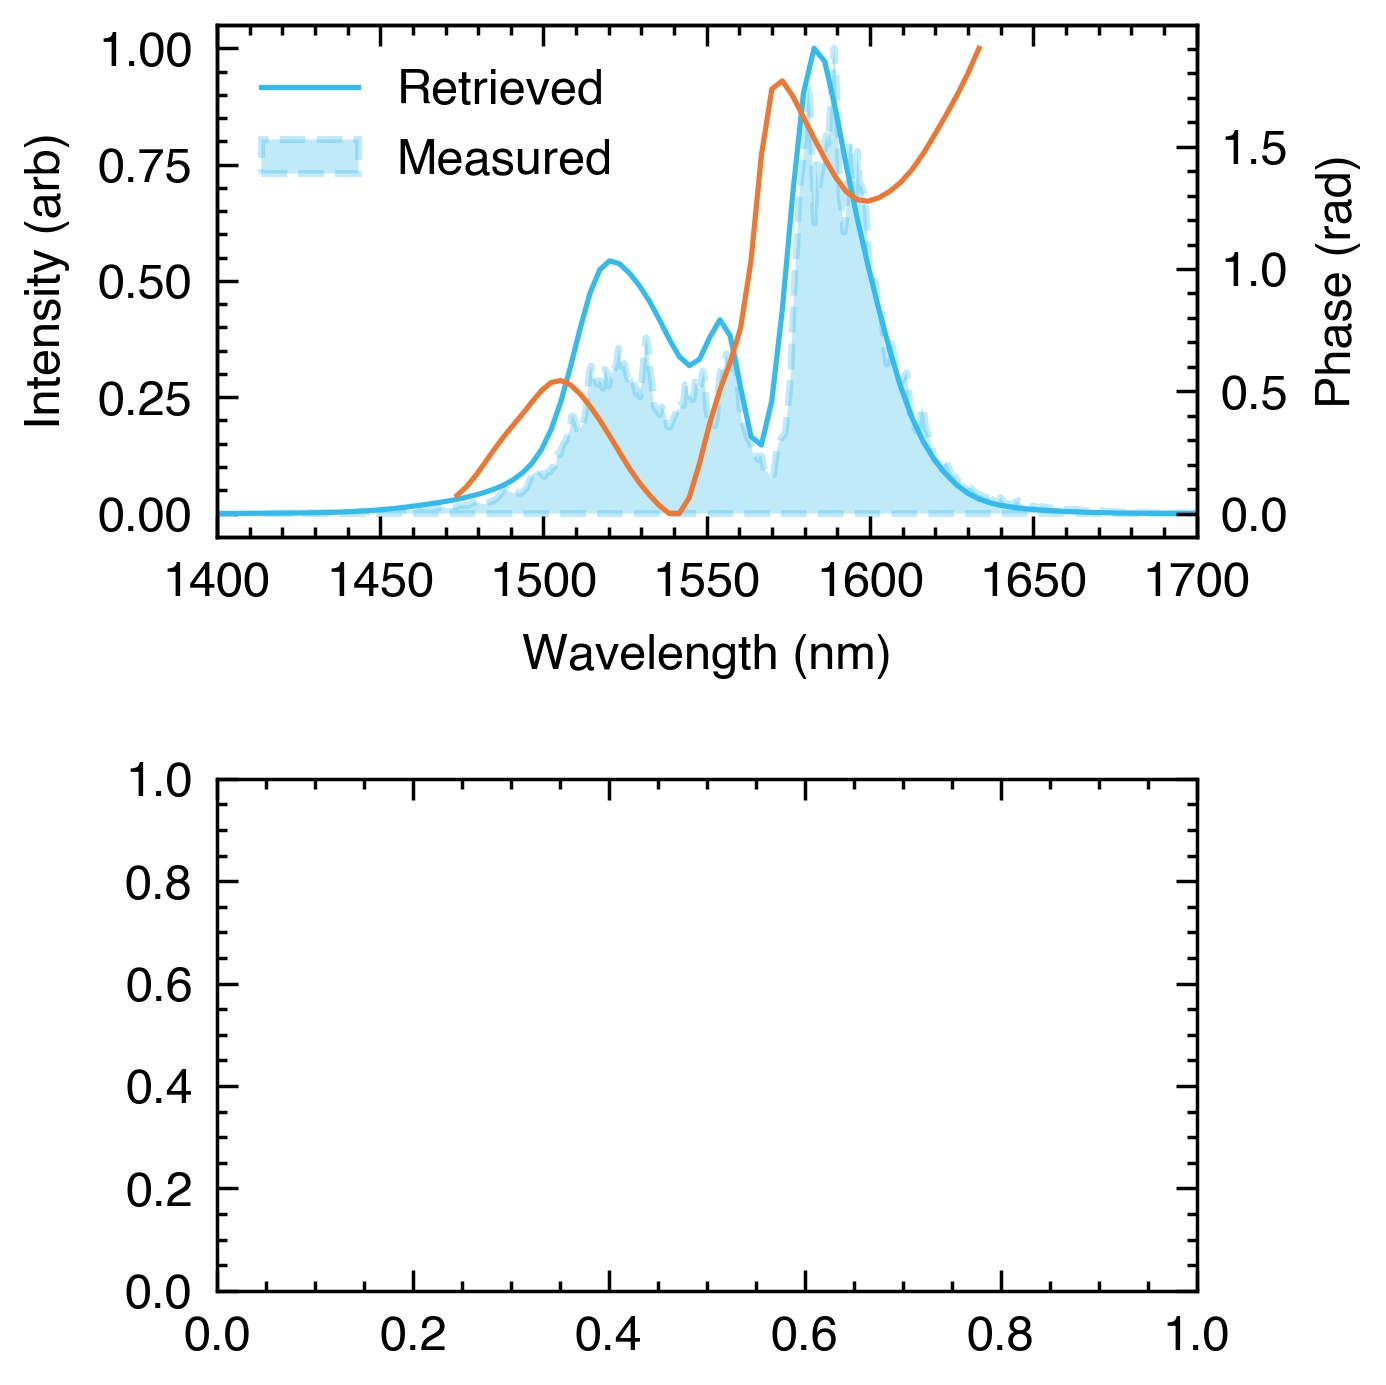
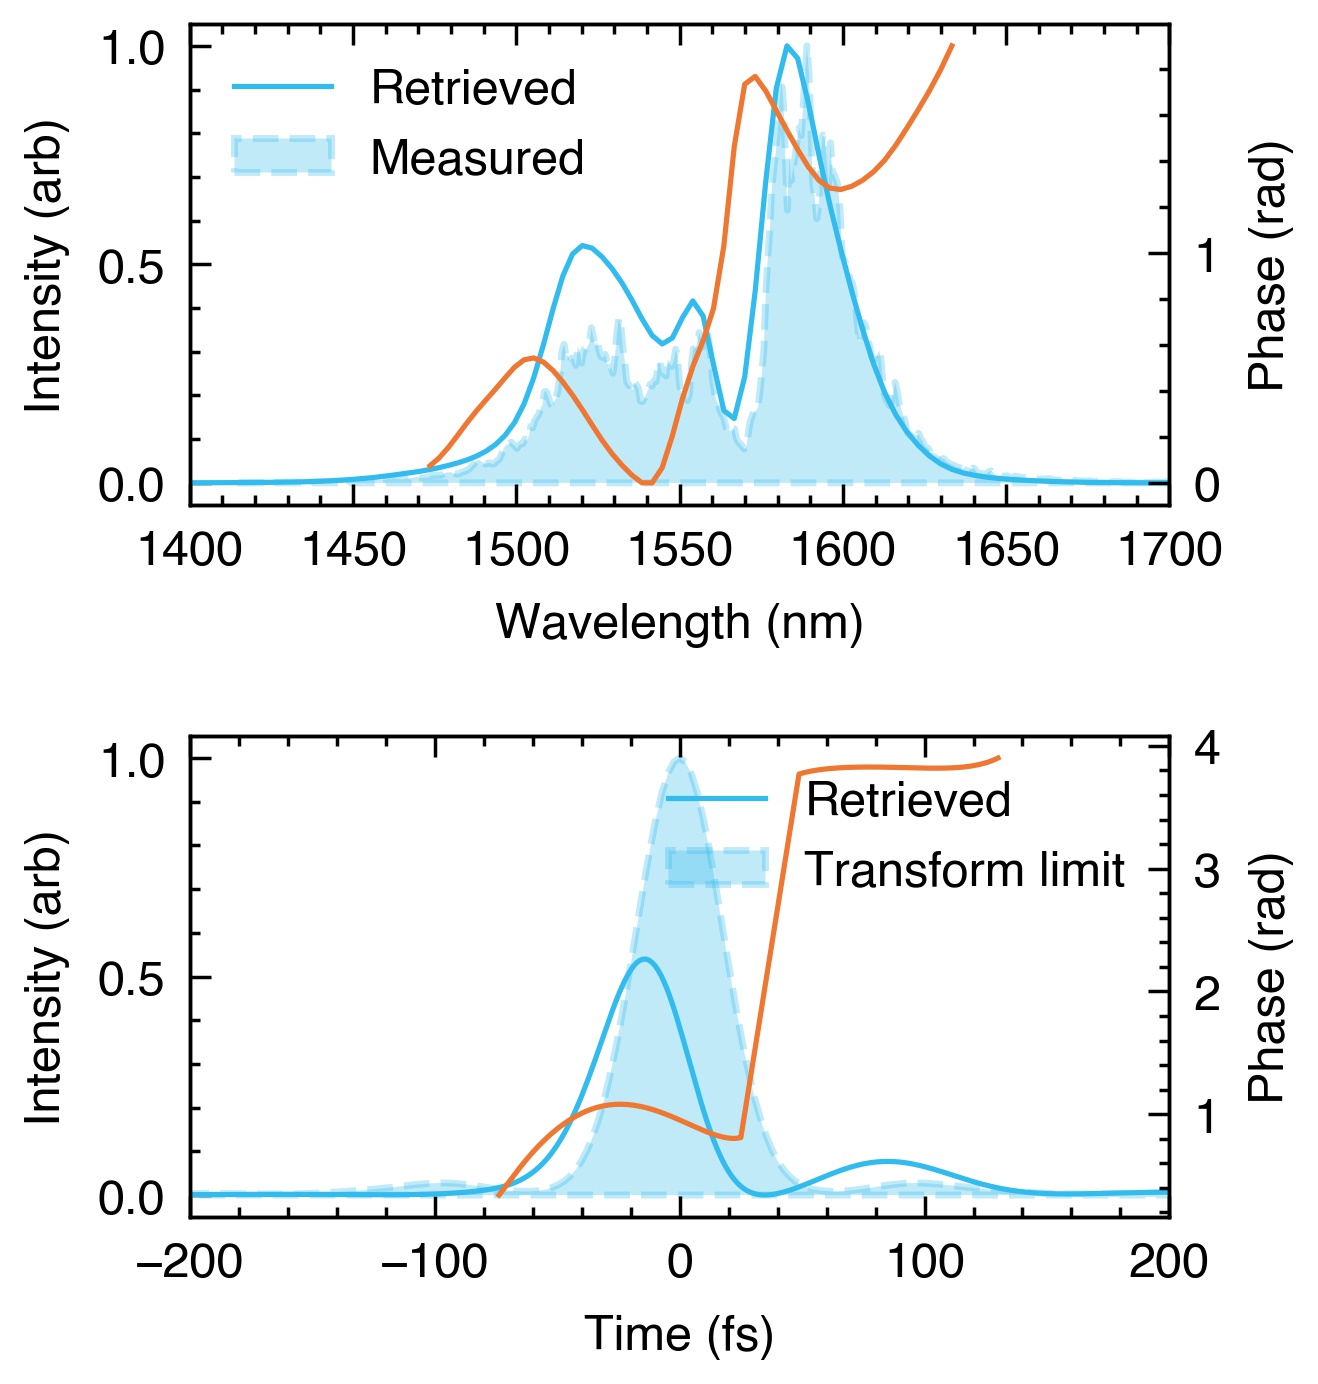
Got temporal plots working

Changed region(s): [[0.0, 0.0, 0.9954, 0.4971], [0.0, 0.5282, 0.9954, 0.9942]]

diff --git a/main.py b/main.py
@@ -7,6 +7,7 @@
 # ----------------------- Imports ------------------------------
 from import_frog_data import import_frog_data
 from import_oceanoptics_data import import_oceanoptics_data
+from calculate_transform_limit import calculate_transform_limit
 import matplotlib.pyplot as plt
 import numpy as np
 
@@ -25,9 +26,10 @@ frog_folder = "FROG retrievals/FROG8"
 spectrum_file = "OceanOptics Spectra/FROG8_spectrum.txt"
 wl_minimum = 1400  # Minimum wavelength [nm]
 wl_maximum = 1700  # Maximum wavelength [nm]
-t_minimum = -500  # Minimum time [fs]
-t_maximum = 500  # Maximum time [fs]
+t_minimum = -200  # Minimum time [fs]
+t_maximum = 200  # Maximum time [fs]
 FROG_threshold = 0.03  # Phase data below this threshold is not shown
+pulse_energy = 1  # Pulse energy [mJ]
 # --------------------------------------------------------------
 
 
@@ -35,18 +37,34 @@ if __name__ == "__main__":
     # Import data from FROG retrieval
     FROG_data = import_frog_data(frog_folder)
     ROI = np.where(FROG_data[1] > FROG_threshold)
+    ROI_t = np.where(FROG_data[4] > FROG_threshold)
 
     # Import data from OceanOptics spectrometer
     Spectrometer_data = import_oceanoptics_data(spectrum_file)
 
-    # Process data
-    # Calculate TL
+    # Calculate transform limit of OceanOptics spectrum
+    TL_data = calculate_transform_limit(
+        Spectrometer_data[0], Spectrometer_data[1], wl_minimum, wl_maximum
+    )
+
+    # Normalize temporal data
+    # TODO: incorporate pulse_energy to calculate peak powers
+    FROG_Et = FROG_data[4] / np.sum(
+        FROG_data[4] * np.abs(FROG_data[0][-1] - FROG_data[0][-2])
+    )
+    TL_Et = TL_data[1] / np.sum(TL_data[1] * np.abs(TL_data[0][-1] - TL_data[0][-2]))
+
+    max = np.max([np.max(FROG_Et), np.max(TL_Et)])
+
+    FROG_Et = FROG_Et / max
+    TL_Et = TL_Et / max
 
     # Generate plot
-    fig, axes = plt.subplots(2, 1, figsize=(3, 3))
+    fig, axes = plt.subplots(2, 2, figsize=(3, 3))
 
-    # Generate spectrum figure
+    # ------------------ Generate spectrum figure ------------------
     ax2 = axes[0].twinx()
+
     axes[0].plot(
         FROG_data[0], FROG_data[1], color=c1, label="Retrieved", linewidth=0.75
     )
@@ -60,29 +78,38 @@ if __name__ == "__main__":
         linestyle="--",
     )
     ax2.plot(FROG_data[0][ROI], FROG_data[2][ROI], color=c2, linewidth=0.75)
+
     axes[0].set_ylabel("Intensity (arb)")
     ax2.set_ylabel("Phase (rad)")
     axes[0].set_xlabel("Wavelength (nm)")
     axes[0].set_xlim(wl_minimum, wl_maximum)
     axes[0].legend()
+    # --------------------------------------------------------------
 
-    # Generate temporal figure
-    # axes[1].plot(
-    #     t_TL_frog,
-    #     E_TL_frog,
-    #     label=f"TL of FROG spectrum, {fwhm_TL_frog:.1f} fs",
-    #     color=c1,
-    # )
-    # axes[1].plot(
-    #     ts_frog - ts_frog[np.argmax(intensity_t)],
-    #     intensity_t,
-    #     label=f"Retrieved pulse, {fwhm_retrieved:.1f} fs",
-    #     color=c4,
-    # )
-    # axes[1].set_xlabel("Time (fs)")
-    # axes[1].set_ylabel("Intensity (arb)")
-    # axes[1].set_xlim(t_minimum, t_maximum)
-    # axes[1].legend()
+    # ------------------ Generate temporal figure ------------------
+    ax3 = axes[1].twinx()
+
+    axes[1].plot(FROG_data[3], FROG_Et, label="Retrieved", color=c1, linewidth=0.75)
+    axes[1].fill_between(
+        TL_data[0],
+        0,
+        TL_Et,
+        color=c1,
+        label="Transform limit",
+        alpha=0.3,
+        linestyle="--",
+    )
+    ax3.plot(FROG_data[3][ROI_t], FROG_data[5][ROI_t], color=c2, linewidth=0.75)
+
+    axes[1].set_ylabel("Intensity (arb)")
+    ax3.set_ylabel("Phase (rad)")
+    axes[1].set_xlabel("Time (fs)")
+    axes[1].set_xlim(t_minimum, t_maximum)
+    axes[1].legend()
+    # --------------------------------------------------------------
+
+    # ---------------- Display measured FROG trade -----------------
+    axes[2].imshow()
 
     fig.tight_layout()
     plt.savefig("figures/combined_frog_plot.jpg", dpi=500)

diff --git a/calculate_transform_limit.py b/calculate_transform_limit.py
@@ -4,8 +4,8 @@ from scipy.interpolate import UnivariateSpline
 from scipy.fft import fft, fftshift
 
 
-def calculate_transform_limit(wls, intensity):
-    intensity = np.where(np.logical_and(wls > 900, wls < 1100), intensity, 0)
+def calculate_transform_limit(wls, intensity, wl_min, wl_max):
+    intensity = np.where(np.logical_and(wls > wl_min, wls < wl_max), intensity, 0)
     phase = np.zeros(len(wls))
     Ew = np.sqrt(intensity) * np.exp(phase)
     freqs = 3e17 / wls
@@ -24,8 +24,10 @@ def calculate_transform_limit(wls, intensity):
     t = np.linspace(-dt * len(freqfit) / 2, dt * len(freqfit) / 2, len(freqfit))
     t = t * 1e15
 
-    spline = UnivariateSpline(t, E - np.max(E) / 2, s=0)
-    r1, r2 = spline.roots()
-    fwhm = np.abs(r2 - r1)
+    # Sometimes doesn't work when the function is not well-behaved
+    # spline = UnivariateSpline(t, E - np.max(E) / 2, s=0)
+    # r1, r2 = spline.roots()
+    # fwhm = np.abs(r2 - r1)
 
-    return E, t, fwhm
+    # return [t, E, fwhm]
+    return [t, E]

diff --git a/import_frog_data.py b/import_frog_data.py
@@ -2,12 +2,18 @@ import numpy as np
 
 
 def import_frog_data(foldername):
-    frog_data = np.genfromtxt(foldername + "/Speck.dat", delimiter="  ")
+    frog_data_spec = np.genfromtxt(foldername + "/Speck.dat", delimiter="  ")
+    frog_data_ts = np.genfromtxt(foldername + "/Ek.dat", delimiter="  ")
 
-    wls = frog_data[:, 0]
-    spec_A = frog_data[:, 1]
-    spec_phi = frog_data[:, 2]
+    wls = frog_data_spec[:, 0]
+    spec_A = frog_data_spec[:, 1]
+    spec_phi = frog_data_spec[:, 2]
+
+    ts = frog_data_ts[:, 0]
+    t_A = frog_data_ts[:, 1]
+    t_phi = frog_data_ts[:, 2]
 
     spec_A = spec_A / np.max(spec_A)
+    t_A = t_A / np.max(t_A)
 
-    return [wls, spec_A, spec_phi]
+    return [wls, spec_A, spec_phi, ts, t_A, t_phi]
